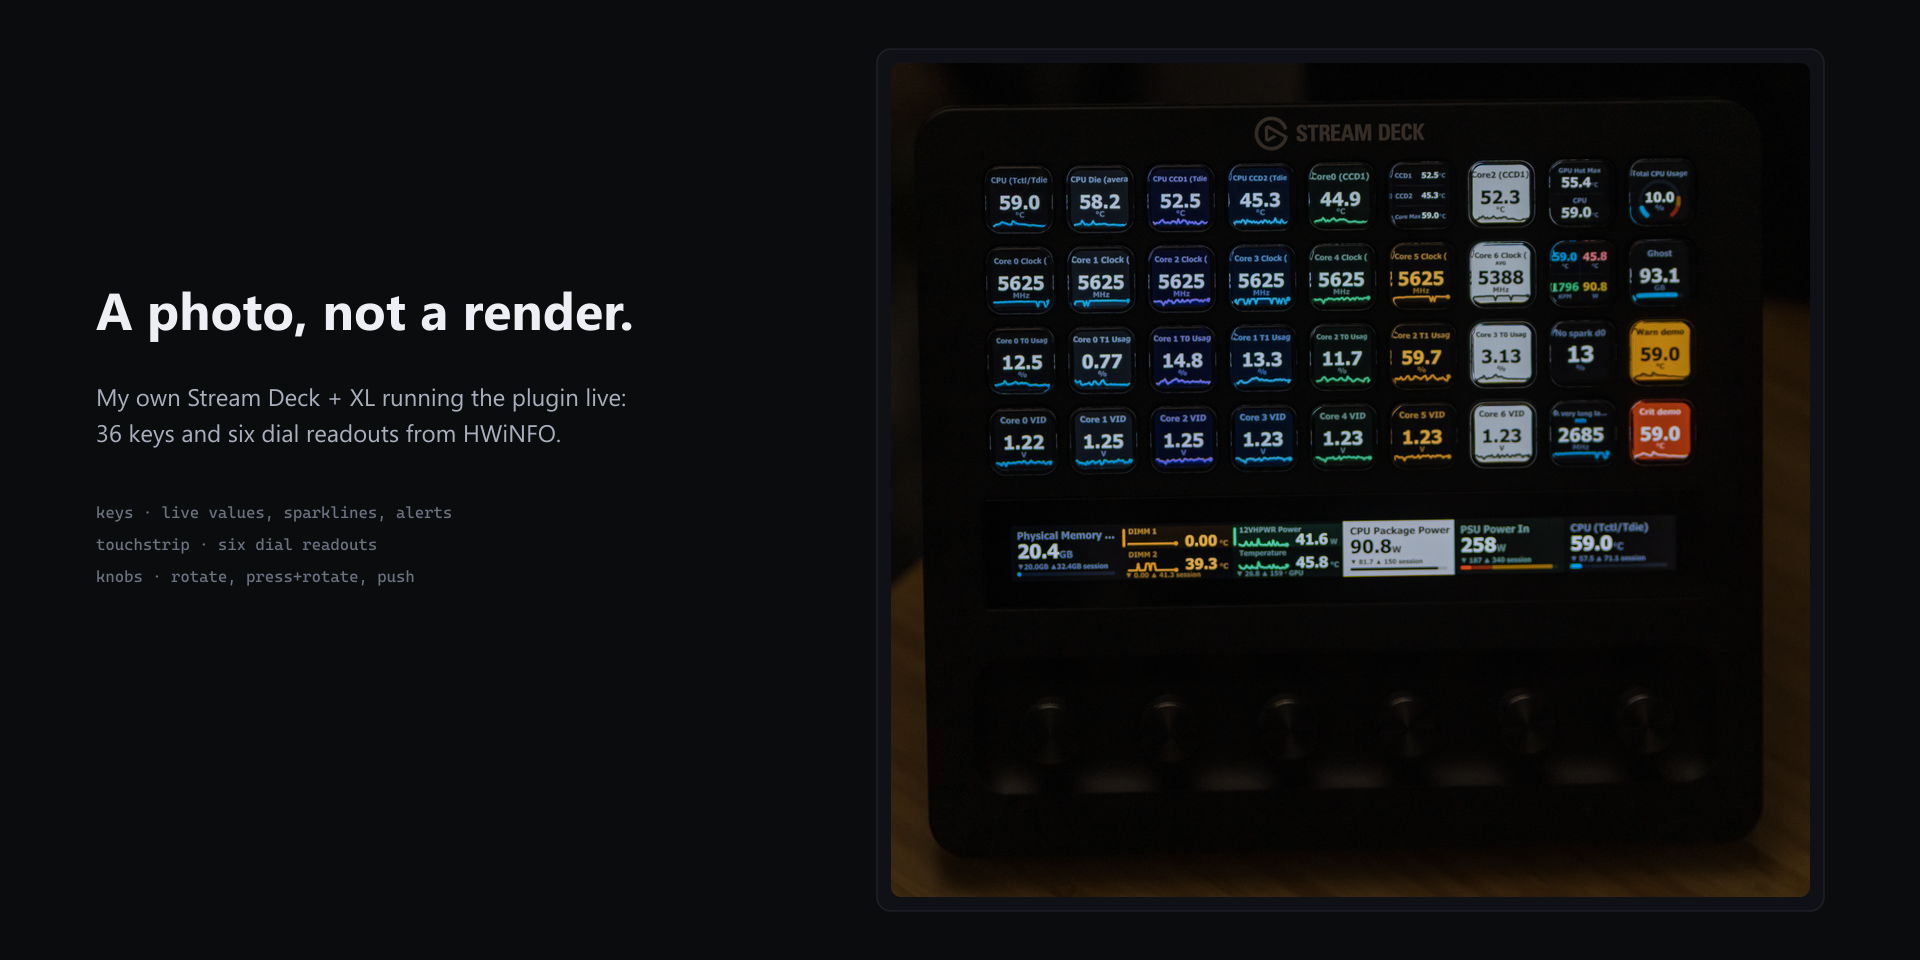
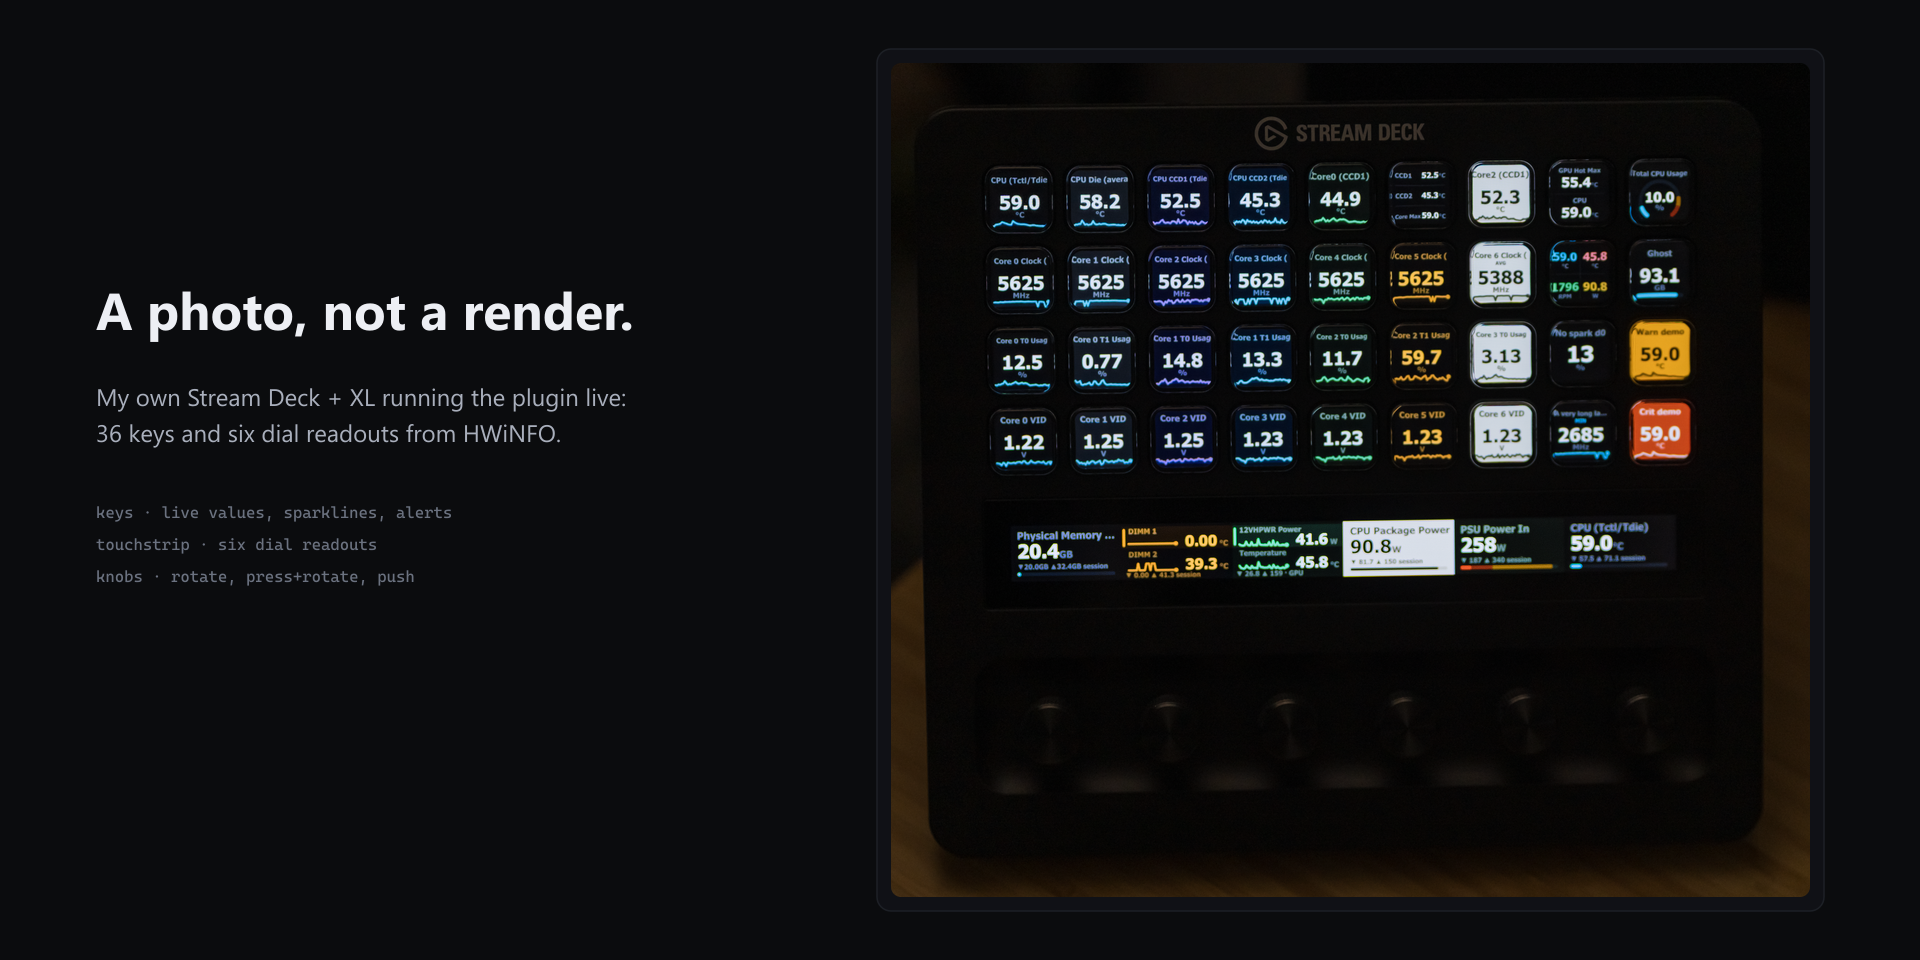
docs(marketing): match the hero photo's key brightness to the renderer
The colour pass fixed saturation and left brightness behind. Measured against
themes.json, the Warn and Crit faces were at 68% and 74% of the brightness the
renderer draws while their saturation sat at 98% and 100%, so the keys read
about half a stop dark next to the real thing.

The earlier grade caused it. Highlights -45 and Whites -20 were protecting the
screens from an exposure lift aimed at the chassis, and the screens are the
highlights, so the protection landed on exactly the wrong subject. Relaxed to
-25 and 0, which puts the faces at 85% and 94% of target brightness with 93%
and 96% of target saturation and still nothing clipped.

Raising exposure instead was rejected: it drags the chassis and desk up with
it and loses the dark room the product actually lives in. Pushing saturation
further was measured and rejected too, since it pins a channel to zero, which
lowers value rather than raising it.

diff --git a/marketing/README.md b/marketing/README.md
@@ -65,8 +65,20 @@ default.
 Current master, replacing the earlier iPhone ProRAW capture: Sony A7 III, FE
 85mm at f/2.5, 1/400, ISO 1600, developed once in Adobe Camera Raw from an XMP
 sidecar. Exposure +0.55 into the 1.07 EV of highlight headroom the frame had
-spare, highlights -45 to hold the screens, shadows +75 and blacks +12 to bring
-the chassis and dials out of black. Nothing clips. There is no exposure
+spare, highlights -25 and whites 0, shadows +75 and blacks +12 to bring the
+chassis and dials out of black. Nothing clips.
+
+The grade is measured against the renderer rather than judged by eye. The Warn
+and Crit demo keys are the only large flat colour patches in the frame and
+their values are fixed in themes.json (#E8940D and #CB2114, never themed,
+never accented), so they serve as a colour target. The camera first recorded
+80% of the renderer's saturation and, once that was corrected, only 68% and
+74% of its brightness, because the highlight suppression protecting the
+screens was landing on the screens themselves. Relaxing it to -25/0 rather
+than raising exposure keeps the chassis dark while the faces land at 93% and
+96% of target saturation and 85% and 94% of target brightness, still with
+nothing clipped. `colorcheck.py` in the session scratchpad measures this; rerun
+it after any regrade. There is no exposure
 blending and no compositing: the touch strip sits slightly outside the depth of
 field at f/2.5, and it was recovered with a bounded Richardson-Lucy
 deconvolution of that region (Gaussian PSF sigma 1.9, 26 iterations, damped so
